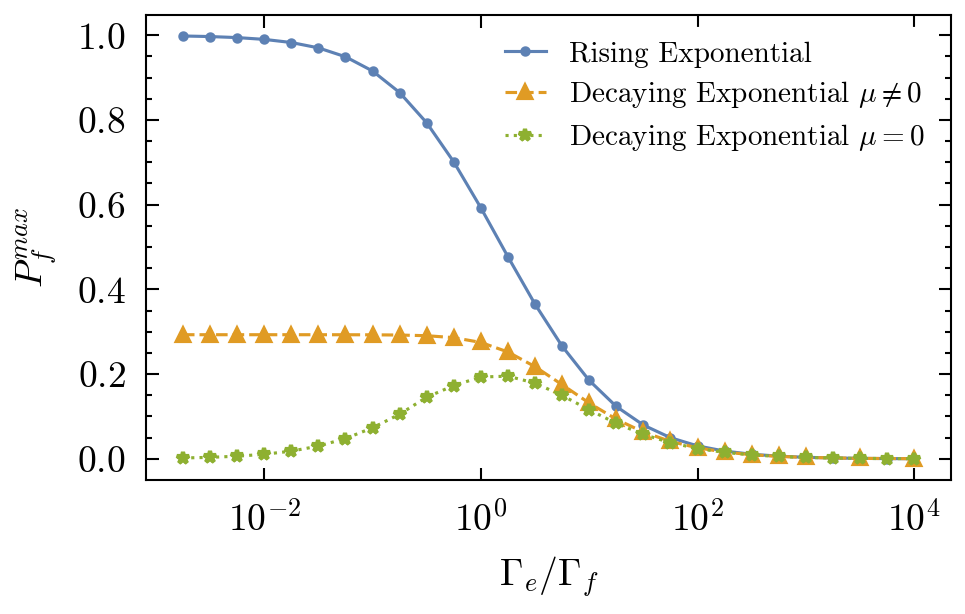
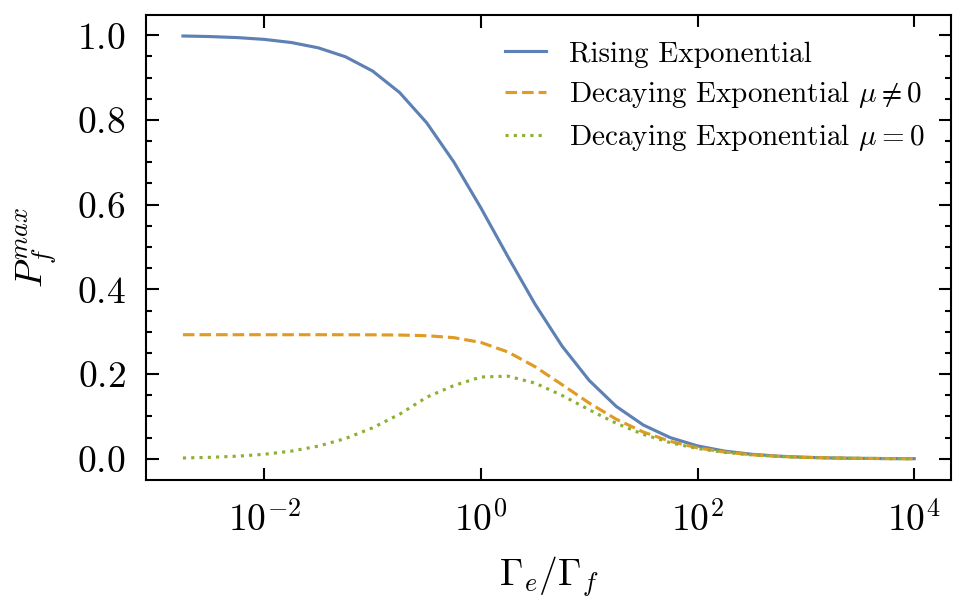
Remove dotes from the Plot because of analytical results

diff --git a/Plotter_P_Gamma_Expo.py b/Plotter_P_Gamma_Expo.py
@@ -60,9 +60,9 @@ def plotter (inputFile: List[str], outputFile:str, title:str = '', label: List[s
     df1 = pd.read_csv(inputFile[0])[1:]
     df2 = pd.read_csv(inputFile[1])
     df3 = pd.read_csv(inputFile[2])[1:]
-    ax.semilogx(df1['Gamma_e'],df1['P_max'], marker = '.',linestyle ='solid', label = label[0])
-    ax.semilogx(df2['Gamma_e'],df2['P_max'], marker = '^',linestyle ='dashed', label = label[1])
-    ax.semilogx(df3['Gamma_e'],df3['P_max'], marker = '*',linestyle ='dotted', label = label[2])
+    ax.semilogx(df1['Gamma_e'],df1['P_max'], linestyle ='solid', label = label[0])
+    ax.semilogx(df2['Gamma_e'],df2['P_max'], linestyle ='dashed', label = label[1])
+    ax.semilogx(df3['Gamma_e'],df3['P_max'], linestyle ='dotted', label = label[2])
     ax.set_title(title)
     ax.set_xlabel(r'$\Gamma_e/\Gamma_f$')
     ax.set_ylabel(r'$P_f^{max}$')
